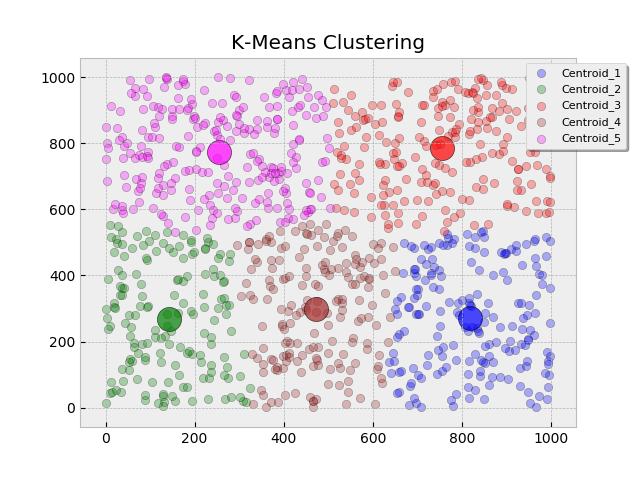
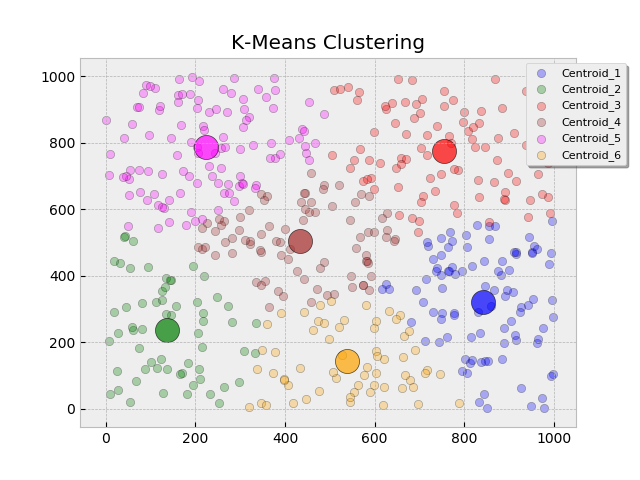
better plots

diff --git a/K-Means_Clustering/K-Means_Clustering.py b/K-Means_Clustering/K-Means_Clustering.py
@@ -13,7 +13,7 @@ if __name__ == "__main__":
         if generate_data.lower() in ['yes', 'y']:
             dimensions = input("Enter the dimensions for your data. (eg. 3 3 3 would be a 3 by 3 by 3 matrix)")
 
-    nodes = np.random.randint(0, 1000, size=(2, 1000))
+    nodes = np.random.randint(0, 1000, size=(2, 500))
     # We are vectorizing the Node class ~~ [Node(), Node(),Node(),...,(n+1)Node()]
     Node_Mapper = np.vectorize(Node)
     # We are passing in the two arrays generated in nodes
@@ -21,7 +21,7 @@ if __name__ == "__main__":
     # We are vectorizing the distance function ~~ [distance(), distance(), ..., (n+1)distance()]
     Distance_Mapper = np.vectorize(distance)
     # Initialize k
-    k = 5
+    k = 6
     if k > 6:
         # Specify the color mapping based on k
         cmap = cm.get_cmap('gist_ncar')
@@ -33,15 +33,17 @@ if __name__ == "__main__":
     # Generate K number of Randomly Generated Centroids
     Centroids = Create_K_Centroids(k, k_centroids=np.random.randint(0, 1000, size=(2, k)), colors=color_list)
     previous_centroid_cords = []
-
-    for temp in range(50):
-        with plt.style.context('bmh'):  ## Nice: [bmh, ggplot, seaborn-darkgrid, seaborn-dark, dark_background ]
+    initial = False
+    for temp in range(51):
+        with plt.style.context('bmh'):
+            if temp == 0:
+                initial = True
+            else:
+                initial = False
             fig, ax = plt.subplots()  # Create a new plot for each iteration
 
             # Generate a list of of centroid coordinates
             temp_centroid_cords = [[i.x, i.y] for i in Centroids]
-            if temp > 0 and temp % 5 == 0:
-                print()
             # Check if the current cords have previously been used, if so we break, else we continue through
             if temp_centroid_cords in previous_centroid_cords:
                 # The centroids did not move
@@ -54,13 +56,14 @@ if __name__ == "__main__":
             plot_key_list = ["Centroid_{}".format(i + 1) for i in range(len(Centroids))]
             # Distribute the nodes to their respective centroids
             distribute_nodes(Centroids, nodes=nodes, nodes_final_location=node_distribution,
-                             subplot=ax, plot_key_list=plot_key_list)
+                             subplot=ax, plot_key_list=plot_key_list, initial=initial)
             # Establish the title for the scatter plot
             plt.title('K-Means Clustering')
             ax.legend(loc='upper center', bbox_to_anchor=(1.0, 1.0), shadow=True, ncol=1, prop={'size': 8})
             ax.grid(True)
             plt.savefig("img/K-Means_Clustering_Plot_{}.png".format(temp))
             plt.show()
+
             print()
 
 

diff --git a/K-Means_Clustering/scripts.py b/K-Means_Clustering/scripts.py
@@ -56,18 +56,21 @@ def Create_K_Centroids(number_of_centroids, k_centroids, colors):
     return np.asarray(centroid_array)
 
 
-def distribute_nodes(centroids, nodes, nodes_final_location, subplot, plot_key_list):
+def distribute_nodes(centroids, nodes, nodes_final_location, subplot, plot_key_list, initial=False):
 
     for i in range(len(centroids)):
-        centroids[i].describe()
         t = np.where(nodes_final_location == i)
         t_0 = nodes[:, t]
         centroids[i].nodes = np.asarray([t_0[0], t_0[1]])
+        if initial:
+            node_color = 'black'
+        else:
+            node_color = centroids[i].centroid_color
         edgecolors = "black"
 
         # Adding the nodes to the Scatterplot
         subplot.scatter(centroids[i].nodes[0], centroids[i].nodes[1],
-                        c=centroids[i].centroid_color, label=plot_key_list[i], alpha=0.3, edgecolors=edgecolors)
+                        c=node_color, label=plot_key_list[i], alpha=0.3, edgecolors=edgecolors)
         # Adding the Centroids to the Scatterplot
         subplot.scatter([centroids[i].centroid_node.x], [centroids[i].centroid_node.y],
                         c=centroids[i].centroid_color, s=300,
@@ -78,7 +81,7 @@ def distribute_nodes(centroids, nodes, nodes_final_location, subplot, plot_key_l
         centroids[i].x = int(avg_x)
         centroids[i].y = int(avg_y)
         centroids[i].nodes = []
-        print()
+
     return
 
 

diff --git a/K-Means_Clustering/README.md b/K-Means_Clustering/README.md
@@ -20,6 +20,6 @@ location. All nodes should be reassigned to the centroids, if situation occurs r
 
 ## Steps
 * Generate K Centroids and randomly assign them locations 
-![K-Means Clustering](img/K-Means_Clustering_Plot_1.png | width=100)
-# TEST
-<img src="img/K-Means_Clustering_Plot_1.png" width="100" height="100">
+<img src="img/K-Means_Clustering_Plot_0.png" width="320" height="240">
+
+* Iterate
